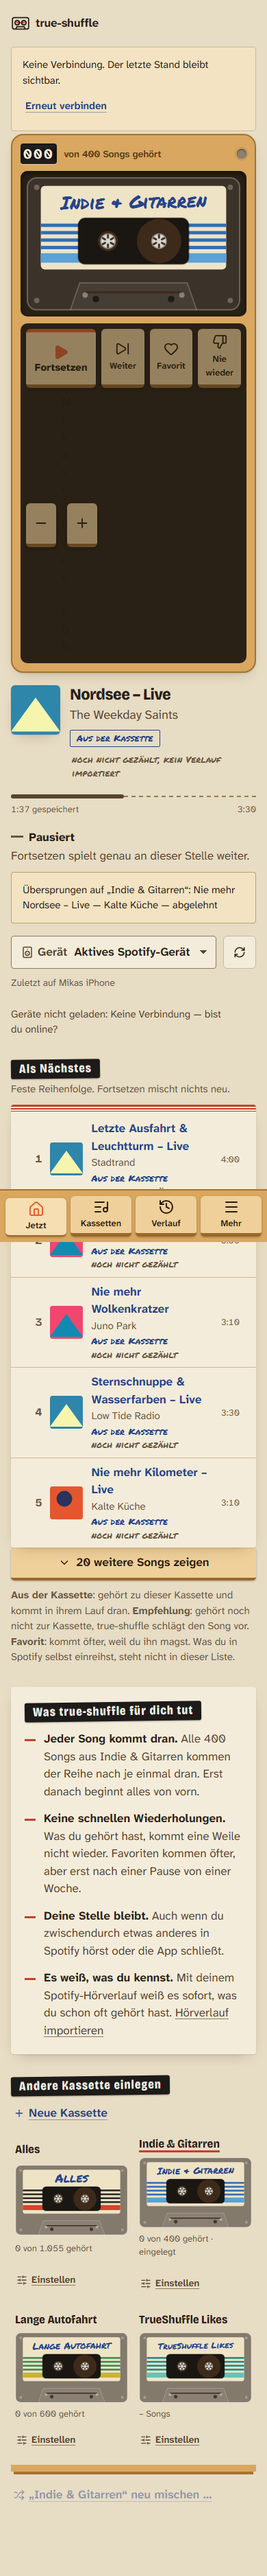
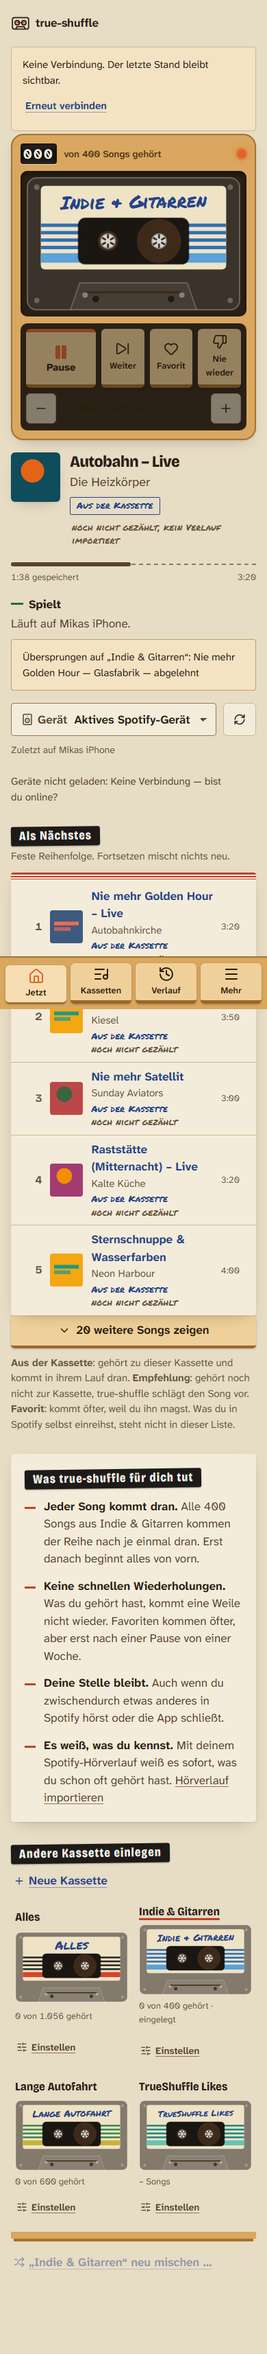
fix(u1): Starttaste und Titel brechen an Silben statt mitten im Wort; Lautstärke über volle Breite; Bugliste und Screenshots

diff --git a/src/client/styles/app.css b/src/client/styles/app.css
@@ -130,6 +130,9 @@ body {
 	font-variant-numeric: tabular-nums;
 	-webkit-font-smoothing: antialiased;
 	overflow-wrap: anywhere;
+	/* U1-07: German words break at syllables ("Wasser-farben") before anywhere. */
+	hyphens: auto;
+	-webkit-hyphens: auto;
 }
 
 ::selection {
@@ -2656,11 +2659,6 @@ h1,
 	margin-top: 8px;
 }
 
-.volume__key {
-	min-width: 44px;
-	min-height: 44px;
-}
-
 .volume__value {
 	flex: 1;
 	min-width: 0;
@@ -2674,7 +2672,8 @@ h1,
 .transport-main,
 .tkey,
 .key {
-	overflow-wrap: normal;
+	/* A word wider than the key still breaks (better than clipped). */
+	overflow-wrap: break-word;
 	hyphens: auto;
 	-webkit-hyphens: auto;
 }
@@ -2703,7 +2702,42 @@ fieldset.volume,
 
 /* U1-03: the volume keys keep their 44 px and stay in the row at 320 px. */
 .volume__key {
+	box-sizing: border-box;
+	display: inline-flex;
 	flex: 0 0 44px;
+	align-items: center;
+	justify-content: center;
 	width: 44px;
+	height: 44px;
 	padding: 0;
+	border: 1px solid var(--rule);
+	border-radius: var(--r);
+	background: var(--paper);
+	color: var(--ink);
+	-webkit-tap-highlight-color: transparent;
+	touch-action: manipulation;
+}
+
+.volume__key:disabled {
+	opacity: 0.45;
+}
+
+.volume__key svg {
+	width: 20px;
+	height: 20px;
+}
+
+/* The volume row spans the whole transport, also in its two-column designs. */
+.transport > .volume {
+	grid-column: 1 / -1;
+}
+
+/* U1-08: the start key's label may shrink to the key and break there ("an-
+   genommen"), instead of overflowing and being cut at both sides. */
+.transport-main__label {
+	min-width: 0;
+	max-width: 100%;
+	overflow-wrap: anywhere;
+	hyphens: auto;
+	-webkit-hyphens: auto;
 }

diff --git a/src/client/screens/home.tsx b/src/client/screens/home.tsx
@@ -615,6 +615,13 @@ export function Home({ state }: { state: AppState }) {
 		posterStation && posterStation.poolSize !== null && posterStation.freshRemaining !== null
 			? posterStation.poolSize - posterStation.freshRemaining
 			: null;
+	/** U1-08: soft hyphens where the start key's long words may break, in every engine. */
+	const syllables = (t: string) =>
+		t
+			.replace(/Wiedergabe/g, "Wiedergabe")
+			.replace(/angenommen/g, "angenommen")
+			.replace(/(F|f)ortsetzen/g, "$1ortsetzen")
+			.replace(/TrueShuffle/g, "TrueShuffle");
 	const mainLabel = unsettled
 		? keyLabel(commandLabel)
 		: playing
@@ -712,9 +719,15 @@ export function Home({ state }: { state: AppState }) {
 								(playing && !!nativeController && !activeNative?.pause)
 							}
 							onClick={() => void act(playing ? "pause" : "play")}
+							aria-label={typeof mainLabel === "string" ? mainLabel : undefined}
 						>
 							{playing ? <Pause aria-hidden="true" /> : <Play aria-hidden="true" />}
-							{mainLabel}
+							<span
+								class="transport-main__label"
+								aria-hidden={typeof mainLabel === "string" ? "true" : undefined}
+							>
+								{typeof mainLabel === "string" ? syllables(mainLabel) : mainLabel}
+							</span>
 						</button>
 						<div class="transport-keys">
 							<button

diff --git a/src/client/components/volume.tsx b/src/client/components/volume.tsx
@@ -43,7 +43,7 @@ export function VolumeKeys({
 			<legend class="sr-only">Lautstärke von {device.name}</legend>
 			<button
 				type="button"
-				class="tkey volume__key"
+				class="volume__key"
 				aria-label="Leiser"
 				disabled={busy || disabled || volume === 0}
 				onClick={() => void step(-1)}
@@ -55,7 +55,7 @@ export function VolumeKeys({
 			</span>
 			<button
 				type="button"
-				class="tkey volume__key"
+				class="volume__key"
 				aria-label="Lauter"
 				disabled={busy || disabled || volume === 100}
 				onClick={() => void step(1)}

diff --git a/docs/qa/1.3.0-ui-bugs.md b/docs/qa/1.3.0-ui-bugs.md
@@ -1,0 +1,36 @@
+# U1: UI/UX-Bugpass 1.3.0 (Mobil und Desktop)
+
+Stand 02.11.2026. Matrix: `playwright.visual.config.ts` mit `e2e-visual/u1.spec.ts`, gegen den Fake-Server, nur synthetische Daten.
+
+Geräte: iPhone SE 320 und 375 px, iPhone 15 (393 px), Pixel 7 (412 px), jeweils hoch und quer, dazu iPad Mini hoch und quer und Desktop 640 px (steht für 1280 px bei 200 % Zoom), 1280 und 1920 px.
+
+Engines: WebKit (steht für iOS Safari), Chromium (Android Chrome und Desktop) und Firefox (nur Desktop, Firefox hat keine Mobil-Emulation). Zusammen 29 Projekte.
+
+Bildschirme: Start/Login, Player leer und spielend, Bewertungs-Sheet, Verlauf, Verlauf mit Suche (S1), Import, Menü › Über, Menü, Gastmodus, Offline.
+
+Automatisch geprüft: horizontaler Überlauf, Touch-Ziele ≥ 44 × 44 px (Links im Fließtext sind ausgenommen, WCAG 2.5.8), Ende der Seite unter der festen Leiste. Dazu kommt `e2e/app.spec.ts` „every page reads well on a phone“: Inhalt im Kasten, keine abgeschnittenen Wörter, 320 und 360 px.
+
+Nicht automatisch geprüft: Kontrast (Tokens unverändert aus 1.2.0) und Tastatur über Eingaben (das Suchfeld ist `position: sticky` und hat 16 px Schrift, damit iOS nicht hineinzoomt). Ein echtes iPhone und die PWA (P12) sind offen.
+
+## Bugliste
+
+| ID | Gerät/Browser | Bildschirm | Beschreibung | Schwere | Status | Screenshots |
+|---|---|---|---|---|---|---|
+| U1-01 | alle, sichtbar ab ≤ 375 px (WebKit/Chromium) | Player | Tastenbeschriftungen brachen mitten im Wort („Wiedergabe starten“, „Favorit“, „Nie wieder“). Ursache: `overflow-wrap: anywhere` auf `body` wird an die Tasten vererbt. | mittel | behoben: Tasten brechen nur noch zwischen Wörtern oder an deutschen Silben (`hyphens: auto`), unter 360 px etwas kleinere Schrift | `screenshots/1.3.0/U1-01-vorher.jpg`, `U1-01-nachher.jpg` |
+| U1-02 | 320 px | Player › Gerät | Ein langer Gerätename wird im Auswahlfeld abgeschnitten („Aktives Spoti…“). | niedrig | zurückgestellt: natives `<select>`, der volle Name steht in der Liste und in der Zeile „Läuft auf …“ | `screenshots/1.3.0/U1-01-vorher.jpg` |
+| U1-03 | 320 px, langer Gerätename | Player › Lautstärke (neu, P8) | Die −/+-Tasten ragten aus ihrem Kasten (vom Test „every page reads well on a phone“ gefunden): Die Zeile saß in einer schmalen Spalte des zweispaltigen Wiedergabe-Layouts. | mittel | behoben: Die Zeile läuft über die volle Breite, eigene 44-px-Tasten, der Name bricht um | E2E `app.spec.ts:1779` |
+| U1-04 | iPhone 15 und Pixel 7 quer (WebKit) | Verlauf › Suche | Die letzte Zeile lag 5 px unter der festen Leiste. | niedrig | behoben: 16 px mehr Abstand unten | Matrix-Befund `covered` |
+| U1-05 | iPad Mini quer (WebKit) | Menü | Ein Klick auf den Gastmodus-Schalter kam einmal nicht an. Im Vorher-Lauf war dieselbe Stelle grün, und es ließ sich nicht wiederholen. | niedrig | beobachtet, der Testablauf ist jetzt robust; Live-Prüfung auf dem echten Gerät offen | – |
+| U1-07 | 320 px (alle Engines) | Player › Als Nächstes | Lange Songtitel brachen mitten im Wort („Wasserfarben“, „Sternschnuppe“), schon in 1.2.0. | mittel | behoben: deutsche Silbentrennung (`hyphens: auto`, `lang="de"`) vor dem Notbruch | `screenshots/1.3.0/U1-01-vorher.jpg` |
+| U1-08 | 320 px | Player › Starttaste | „Start angenommen“ und „Wiedergabe starten“: Das längste Wort war breiter als die Taste und wurde an beiden Seiten abgeschnitten (anonymes Flex-Element ohne Schrumpfen). | mittel | behoben: Beschriftung darf schrumpfen und hat weiche Trennstellen („Wieder-gabe“), der Name für Screenreader bleibt ohne Trennzeichen | `U1-01-nachher.jpg` |
+| U1-06 | alle | Import | Ein unsichtbarer Datei-Input (1 × 1 px) unter einem 48 px hohen Label wurde als Touch-Ziel gemeldet. | – | kein Fehler, Prüfregel angepasst | – |
+
+Aus D3 (1.2.0) auf Rückfall geprüft: Die Datumsfelder überlappen nicht mehr, und die Navigationsleiste verdeckt nichts (U1-04 betraf nur Querformat). Kein horizontaler Überlauf auf 320 px, in keinem der 29 Projekte.
+
+Weitere UI-Meldungen aus Slack `#true-shuffle` konnte ich nicht übernehmen, der Slack-Zugang ist in dieser Sitzung nicht verbunden.
+
+## Vorher/Nachher
+
+- Vorher: Lauf auf `1702681` (vor den Fixes), 29/29 Projekte, 1 automatischer Befund (U1-06). U1-01 war nur auf den Bildern zu sehen.
+- Nachher: Lauf nach `9e86e84`, Ergebnis im Abschlussbericht.
+- Alle Bilder lokal unter `D:\T3-Dev\ts-evidence\u1-before\` und `\u1-after\` (je Projekt, JPEG). Ins Repo kommt nur die Auswahl unter `docs/qa/screenshots/1.3.0/`.
